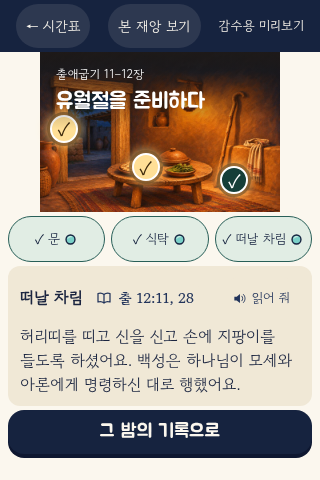
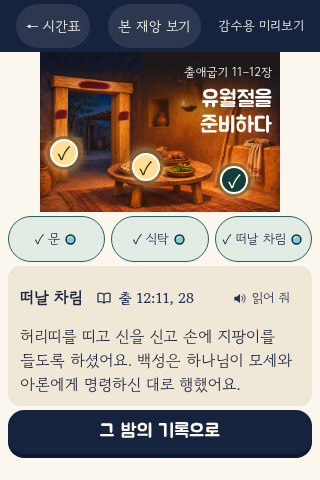
총괄 7절 반영판의 식탁 확대 사진과 휴대폰 실화면으로 인계 갱신

Changed region(s): [[0.125, 0.125, 0.8438, 0.4062], [0.5, 0.2812, 0.5938, 0.3438]]

diff --git a/docs/인계/재앙_관찰과복귀_GPT.md b/docs/인계/재앙_관찰과복귀_GPT.md
@@ -1,6 +1,6 @@
 # 재앙을 관찰하고 멈춘 곳에서 이어가기
 
-작업 브랜치는 `gpt/exodus-observation-journal`이다. 총괄이 요청한 P1 수정은 `gpt/exodus-field-notes`의 `8e40944`와 [별도 인계](열재앙_P1_배치재검토반영_GPT.md)에 있다. 이 브랜치는 그 수정과 두 장소 그림 선택을 함께 담은 후속 감수용 미리보기다.
+현재 관찰판 게임은 `4c58a91`(브랜치 `gpt/exodus-observation-journal`)이다. Claude의 `47df154`를 반영한 본문·그림 전용 브랜치는 `gpt/exodus-field-notes`다. 목격 기록 아홉과 문 세 곳의 표시, 식탁 위 구운 어린 양이 두 브랜치에 모두 들어 있다. [P1·P2·P3·P6 총괄 인계와 실제 화면](열재앙_P1_P2_P3_P6_반영_GPT.md)
 
 ## 게임에서 해 볼 수 있는 일
 
@@ -32,7 +32,7 @@ Claude에게는 P1 반영 브랜치의 [전체 점검 결과](https://github.com
 
 8~10세 설정에서 첫 재앙을 연 뒤 유월절 방에 들어갈 때까지 세었다. 예전 판 `10bd688`은 한 장의 강가에서 아홉 번 연속으로 보기를 고른 뒤 ‘다음’을 눌러 총 18번이었다. `7a863a0`은 첫째·넷째·아홉째에 두 장소를 보고 나머지는 짧게 지나가므로 기본 경로는 15번이다. 이 과정에서 실제 표시한 재앙 그림은 12장이었다. 선택 활동과 어린이의 체류 시간은 이 수에 포함하지 않았다.
 
-최종 게임 `7a863a0`을 Chromium, WebKit, Firefox에서 웹 원본·단일 파일 두 경로와 세 연령 조합으로 총 18회 완주했다. 320×480에서는 세 단서 설명과 다음 단추까지 화면 안에 들어오는지 검사했다. 별도로 Gemini ZIP을 빈 폴더에 풀고 빌드한 뒤 그 파일에서도 두 경로와 세 연령이 모두 통과했다. 사용한 환경은 자동 조작 브라우저이며 기기 실물이나 어린이 대상 사용성 시험은 별도다.
+7절 그림 결정을 받기 전 게임 `7a863a0`을 Chromium, WebKit, Firefox에서 웹 원본·단일 파일 두 경로와 세 연령 조합으로 총 18회 완주했다. 320×480에서는 세 단서 설명과 다음 단추까지 화면 안에 들어오는지 검사했다. 별도로 Gemini ZIP을 빈 폴더에 풀고 빌드한 뒤 그 파일에서도 두 경로와 세 연령이 모두 통과했다. 사용한 환경은 자동 조작 브라우저이며 기기 실물이나 어린이 대상 사용성 시험은 별도다.
 
 ```text
 점검 종류: 전체 · 통과 8/8
